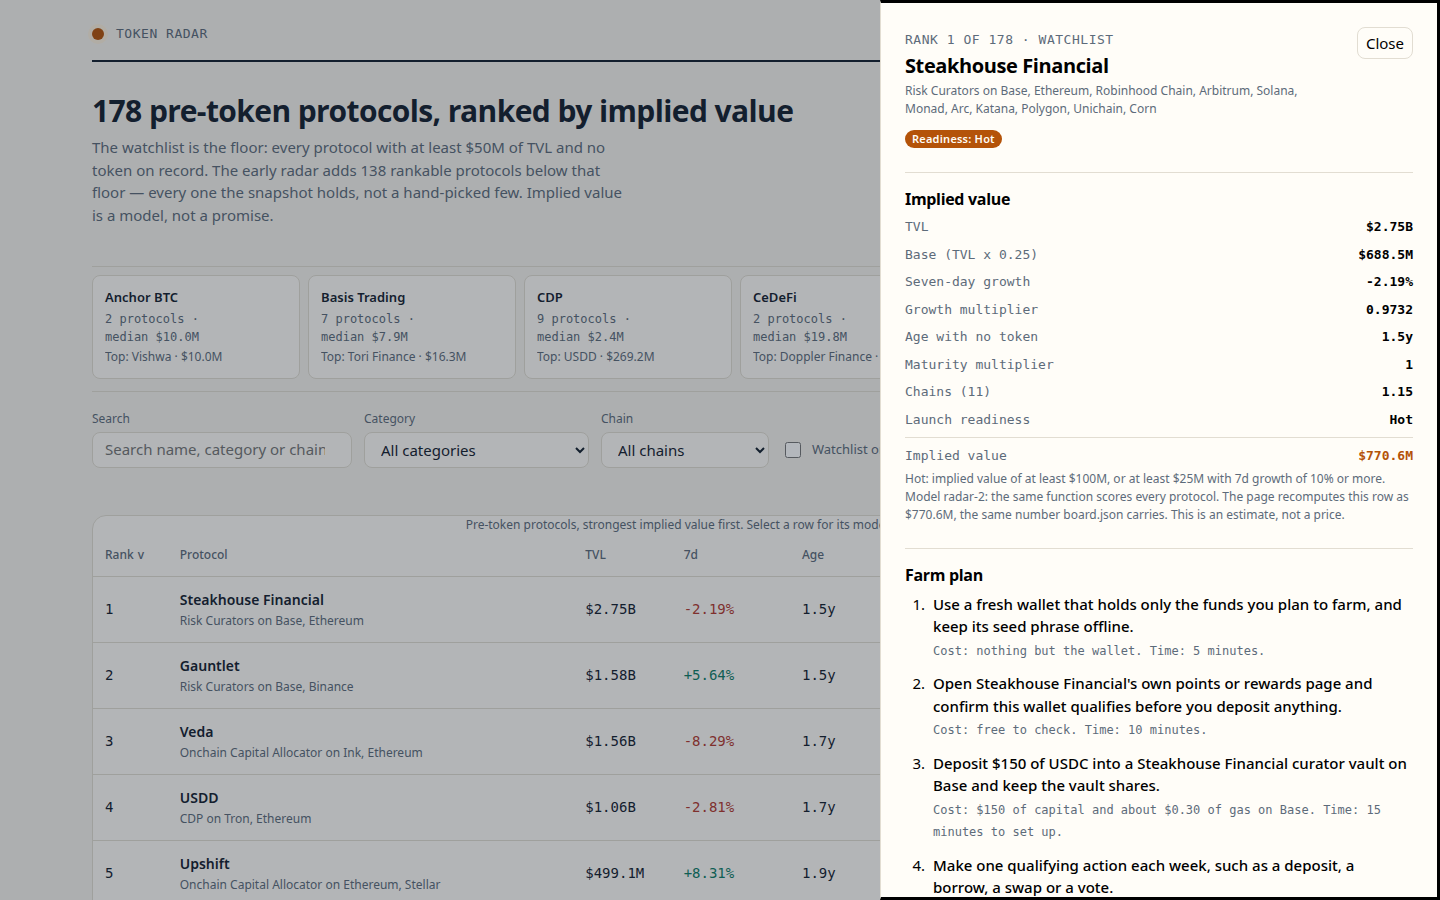
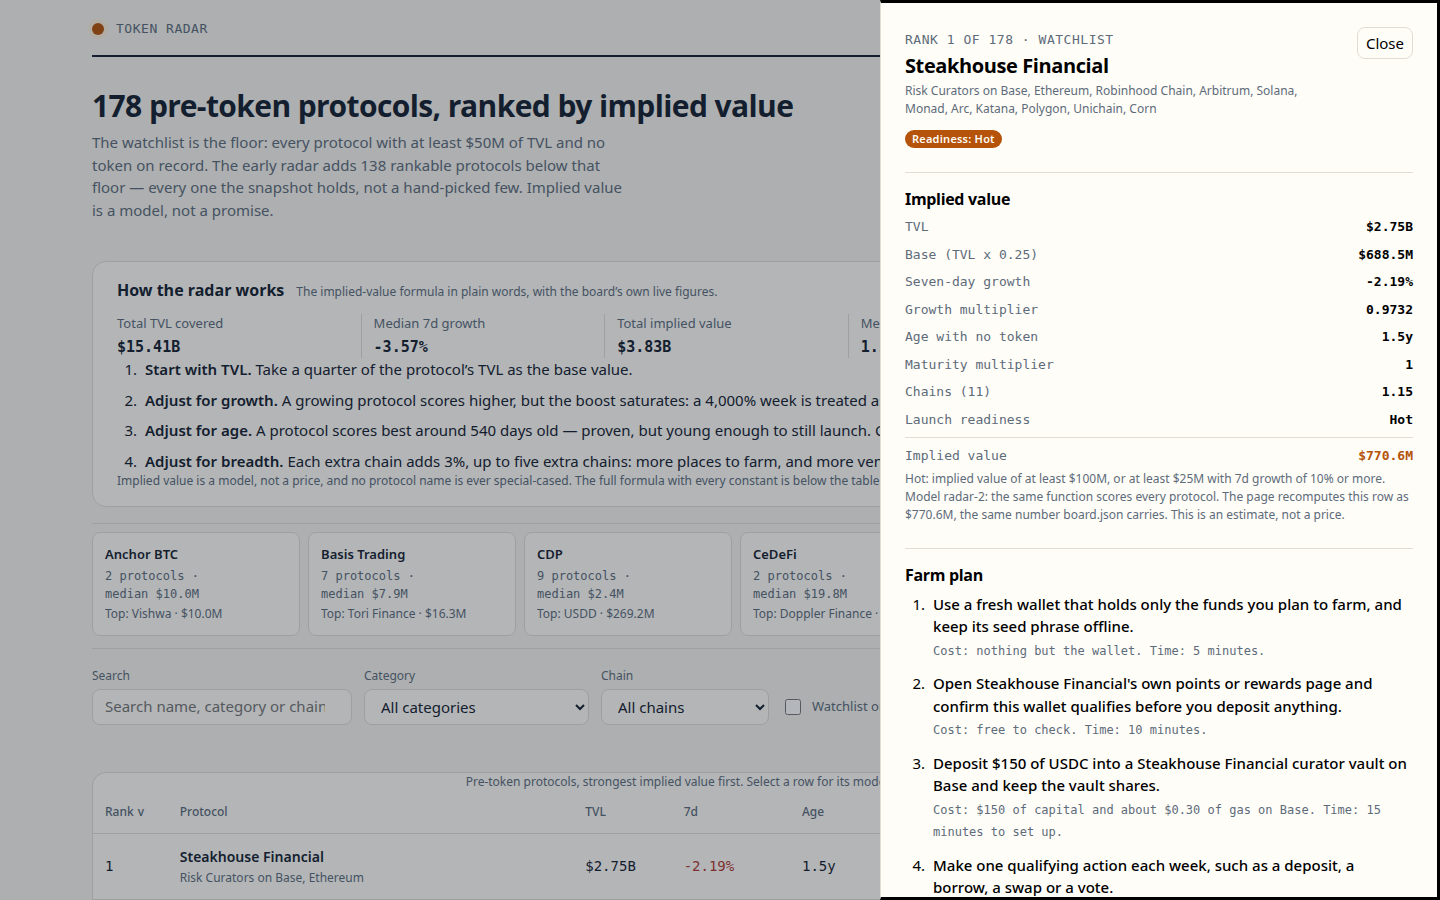
radar-4: methodology panel with live stats, age column

diff --git a/dashboard/app.js b/dashboard/app.js
@@ -1,8 +1,9 @@
 // Token Radar's radar-2 dashboard. It reads window.RADAR (written beside dashboard/ by main.ts) and
 // renders the ranked board, a filterable table (search, category, chain, watchlist-only), a
 // per-protocol detail drawer with the model's own inputs and the protocol's farm plan, a category
-// summary strip (count, median implied value and top protocol per category), a Movers sort by
-// seven-day TVL change, a CSV export of the rows on screen, and a launch-readiness badge per row.
+// summary strip (count, median implied value and top protocol per category), a collapsible
+// methodology panel with the board's live figures, a Movers sort by seven-day TVL change, a CSV
+// export of the rows on screen, and a launch-readiness badge per row.
 // No network: every byte it shows is in data.js.
 (function () {
   'use strict';
@@ -314,6 +315,51 @@
     return el('section', { class: 'cat-strip', 'aria-label': 'Category summary' }, cards);
   }
 
+  // The methodology panel's live figures: the board's own numbers, recomputed on every render, never
+  // typed in. Total TVL covered and total implied value are sums over the board; the median seven-day
+  // growth and the median age are the upper middle values of the rows that carry them; the readiness
+  // split counts the bands the board itself assigns. A figure the page cannot recompute from the
+  // rows on screen does not belong in this panel.
+  function boardStats() {
+    var rows = DATA.rows;
+    var tvl = rows.reduce(function (s, r) { return s + r.tvl_usd; }, 0);
+    var implied = rows.reduce(function (s, r) { return s + r.implied_value_usd; }, 0);
+    var growths = rows.map(function (r) { return r.change_7d; }).filter(function (g) { return g !== null && g !== undefined; }).sort(function (a, b) { return a - b; });
+    var medianGrowth = growths.length ? growths[Math.floor(growths.length / 2)] : null;
+    var ages = rows.map(function (r) { return r.age_days; }).filter(function (a) { return a !== null && a !== undefined; }).sort(function (a, b) { return a - b; });
+    var medianAge = ages.length ? ages[Math.floor(ages.length / 2)] : null;
+    var bands = { Hot: 0, Warm: 0, Watch: 0 };
+    rows.forEach(function (r) { bands[readinessOf(r)] += 1; });
+    return { tvl: tvl, implied: implied, medianGrowth: medianGrowth, medianAge: medianAge, bands: bands };
+  }
+
+  // The methodology panel: the implied-value formula in plain words, beside the board's own live
+  // figures. It is a <details> so a reader who only wants the table can collapse it, and it opens
+  // on the board so the method is visible without a click. The full formula with every constant
+  // stays below the table; this panel is the short version a reader can check in a minute.
+  function methodPanel() {
+    var s = boardStats();
+    var stats = el('div', { class: 'method-stats' },
+      el('div', { class: 'fact' }, el('span', { text: 'Total TVL covered' }), el('b', { text: fmtUsd(s.tvl) })),
+      el('div', { class: 'fact' }, el('span', { text: 'Median 7d growth' }), el('b', { text: fmtPct(s.medianGrowth) })),
+      el('div', { class: 'fact' }, el('span', { text: 'Total implied value' }), el('b', { text: fmtUsd(s.implied) })),
+      el('div', { class: 'fact' }, el('span', { text: 'Median age with no token' }), el('b', { text: fmtAge(s.medianAge) })),
+      el('div', { class: 'fact' }, el('span', { text: 'Readiness: Hot / Warm / Watch' }), el('b', { text: s.bands.Hot + ' / ' + s.bands.Warm + ' / ' + s.bands.Watch }))
+    );
+    var steps = el('ol', { class: 'method-steps' },
+      el('li', null, el('b', { text: 'Start with TVL. ' }), 'Take a quarter of the protocol\u2019s TVL as the base value.'),
+      el('li', null, el('b', { text: 'Adjust for growth. ' }), 'A growing protocol scores higher, but the boost saturates: a 4,000% week is treated as a data spike, not forty times hotter.'),
+      el('li', null, el('b', { text: 'Adjust for age. ' }), 'A protocol scores best around 540 days old — proven, but young enough to still launch. Older with no token is discounted, not rewarded.'),
+      el('li', null, el('b', { text: 'Adjust for breadth. ' }), 'Each extra chain adds 3%, up to five extra chains: more places to farm, and more venues that would want the token.')
+    );
+    return el('details', { class: 'panel method', open: 'open' },
+      el('summary', null, el('b', { text: 'How the radar works' }), el('span', { class: 'sub', text: 'The implied-value formula in plain words, with the board\u2019s own live figures.' })),
+      stats,
+      steps,
+      el('p', { class: 'sub', text: 'Implied value is a model, not a price, and no protocol name is ever special-cased. The full formula with every constant is below the table.' })
+    );
+  }
+
   function controls() {
     var categories = Array.from(new Set(DATA.rows.map(function (r) { return r.category || 'Other'; }))).sort();
     var chains = Array.from(new Set(DATA.rows.reduce(function (acc, r) { return acc.concat(r.chains || []); }, []))).sort();
@@ -396,7 +442,7 @@
         )),
         el('td', { class: 'num', text: fmtUsd(r.tvl_usd) }),
         el('td', { class: 'num ' + growthClass, text: growth }),
-        el('td', { class: 'num', text: fmtAge(r.age_days) }),
+        el('td', { class: 'num', text: fmtAge(r.age_days), title: r.age_days === null ? 'First listed: unknown' : r.age_days + ' days since first listed' + (r.listed_at ? ' (' + r.listed_at + ')' : '') }),
         el('td', null, el('div', { class: 'implied' },
           el('div', { class: 'bar', 'aria-hidden': 'true' }, el('i', { style: 'width:' + Math.max(3, Math.round((r.implied_value_usd / max) * 100)) + '%' })),
           el('span', { class: 'num', text: fmtUsd(r.implied_value_usd) })
@@ -520,6 +566,7 @@
     var shell = el('div', { class: 'shell' });
     shell.appendChild(header());
     shell.appendChild(lede());
+    shell.appendChild(methodPanel());
     shell.appendChild(categoryStrip());
     shell.appendChild(controls());
     shell.appendChild(state.tab === 'pre-token' ? boardTable() : liveTable());

diff --git a/dashboard/app.css b/dashboard/app.css
@@ -84,6 +84,19 @@ a { color: var(--accent); }
 .cat-n { font-family: var(--font-num); font-size: 12px; color: var(--muted); }
 .cat-top { font-size: 12px; color: var(--muted); overflow: hidden; text-overflow: ellipsis; white-space: nowrap; }
 
+/* The methodology panel: a collapsible explainer above the table, so the method is visible without
+   scrolling to the formula below it. The live figures are the board's own numbers, recomputed on
+   every render; the panel is a <details> so it can be collapsed out of the way. */
+.method { margin-top: var(--step-4); padding: var(--step-4) var(--step-5); display: grid; gap: var(--step-3); }
+.method summary { cursor: pointer; display: flex; flex-wrap: wrap; align-items: baseline; gap: var(--step-3); }
+.method summary b { font-size: 16px; font-weight: 650; }
+.method-stats { display: grid; grid-template-columns: repeat(auto-fit, minmax(180px, 1fr)); gap: var(--step-3); }
+.method-stats .fact { display: grid; gap: 2px; border-left: 1px solid var(--border); padding-left: var(--step-3); }
+.method-stats .fact:first-child { border-left: 0; padding-left: 0; }
+.method-steps { margin: 0; padding-left: var(--step-5); display: grid; gap: var(--step-2); }
+.method-steps li { padding-left: var(--step-1); }
+.method-steps b { font-weight: 600; }
+
 .controls { display: flex; flex-wrap: wrap; align-items: end; gap: var(--step-3); padding: var(--step-4) 0; border-top: 1px solid var(--border); }
 .field { display: grid; gap: var(--step-1); }
 .field label { color: var(--muted); font-size: 12px; }

diff --git a/README.md b/README.md
@@ -4,7 +4,7 @@
 [![rank](https://make.fun/badge/token-radar-01/Shintya7/token-radar-01/rank.svg)](https://make.fun/bounty/token-radar-01/leaderboard?utm_source=github&utm_medium=readme&utm_campaign=token-radar-01)
 [![reward](https://make.fun/badge/token-radar-01/Shintya7/token-radar-01/reward.svg)](https://make.fun/bounty/token-radar-01?utm_source=github&utm_medium=readme&utm_campaign=token-radar-01)
 
-Token Radar ranks 178 pre-token DeFi protocols by implied token value, from a sealed DefiLlama snapshot of 758 protocols. The radar-2 model scores each protocol from its own figures — TVL, saturating seven-day growth, a token-window maturity hump and chain breadth — and every row carries an eight-step farm plan with concrete costs and times, ending on a risk note read off the protocol's own record (a growth spike, a long pre-token history, single-chain concentration, a shrinking TVL, or the all-clear). Each row also carries a launch-readiness band — Hot, Warm or Watch — from its implied value and seven-day growth. The static dashboard is sortable and filterable, with a detail view per protocol, a category summary strip (protocol count, median implied value and top protocol per category, click a card to filter), a one-click Movers sort by seven-day TVL change, a CSV export of the rows on screen, and the live-token protocols set aside at their market caps.
+Token Radar ranks 178 pre-token DeFi protocols by implied token value, from a sealed DefiLlama snapshot of 758 protocols. The radar-2 model scores each protocol from its own figures — TVL, saturating seven-day growth, a token-window maturity hump and chain breadth — and every row carries an eight-step farm plan with concrete costs and times, ending on a risk note read off the protocol's own record (a growth spike, a long pre-token history, single-chain concentration, a shrinking TVL, or the all-clear). Each row also carries a launch-readiness band — Hot, Warm or Watch — from its implied value and seven-day growth. The static dashboard is sortable and filterable, with a detail view per protocol, a collapsible methodology panel that states the formula in plain words beside the board's own live figures (total TVL covered, median 7d growth, total implied value, median age and the Hot/Warm/Watch split), a category summary strip (protocol count, median implied value and top protocol per category, click a card to filter), a one-click Movers sort by seven-day TVL change, a CSV export of the rows on screen, and the live-token protocols set aside at their market caps.
 
 ## Run it
 
